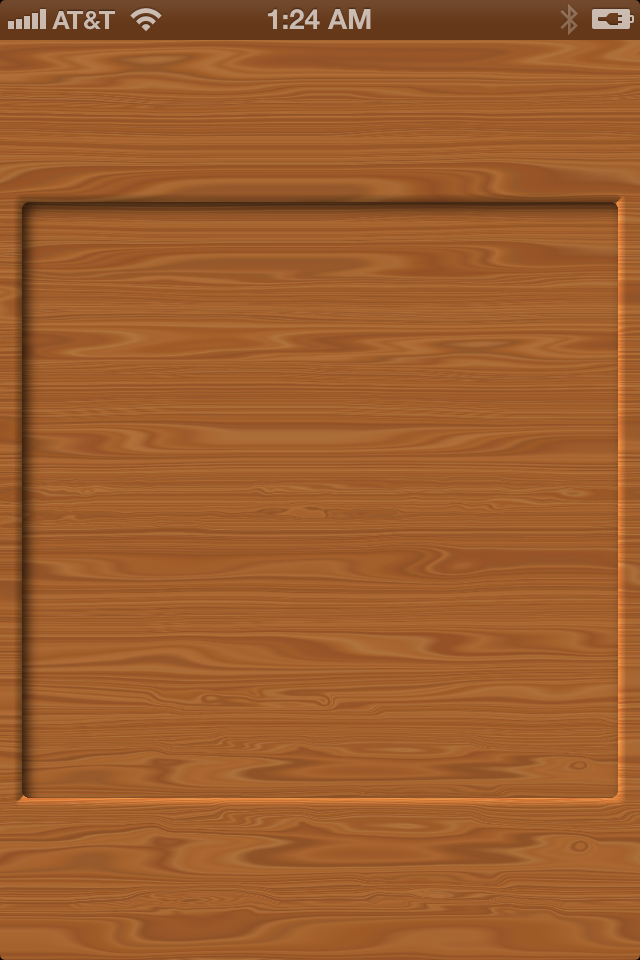
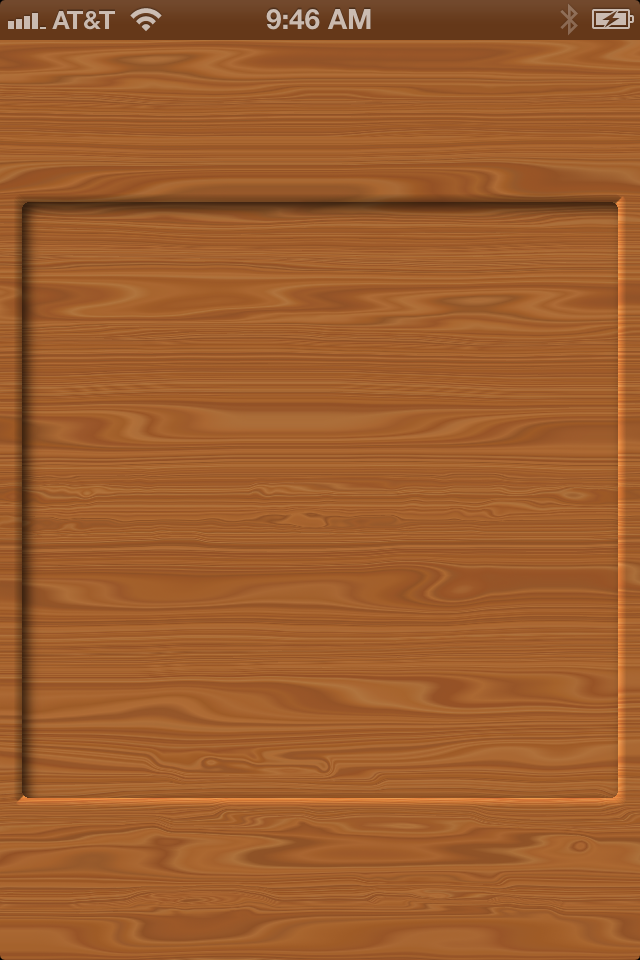
Added frame shadow

diff --git a/Puzzle/Puzzle/PZViewController.m b/Puzzle/Puzzle/PZViewController.m
@@ -23,6 +23,13 @@ static NSString *const kPuzzleState = @"PZPuzzleStateDefaults";
 static NSString *const kElapsedTime = @"PZElapsedTimeDefaults";
 
 //////////////////////////////////////////////////////////////////////////////////////////
+@interface CALayer(PZExtentions)
+
+- (void)setupPuzzleShadow;
+
+@end
+
+//////////////////////////////////////////////////////////////////////////////////////////
 @interface PZViewController ()
 
 @property (nonatomic, strong) PZPuzzle *puzzle;
@@ -502,10 +509,7 @@ static NSString *const kElapsedTime = @"PZElapsedTimeDefaults";
             
             if (kSupportsShadows)
             {
-                tileLayer.shadowOpacity = 0.7;
-                tileLayer.shadowOffset = CGSizeMake(3.0, 3.0);
-                tileLayer.shouldRasterize = YES;
-                tileLayer.rasterizationScale = [UIScreen mainScreen].scale;
+                [tileLayer setupPuzzleShadow];
             }
             [self.layersView.layer addSublayer:tileLayer];
         }
@@ -573,4 +577,18 @@ static NSString *const kElapsedTime = @"PZElapsedTimeDefaults";
         }
     }
 }
+
+@end
+
+//////////////////////////////////////////////////////////////////////////////////////////
+@implementation CALayer(PZExtentions)
+
+- (void)setupPuzzleShadow
+{
+    self.shadowOpacity = 0.7;
+    self.shadowOffset = CGSizeMake(3.0, 3.0);
+    self.shouldRasterize = YES;
+    self.rasterizationScale = [UIScreen mainScreen].scale;
+}
+
 @end
